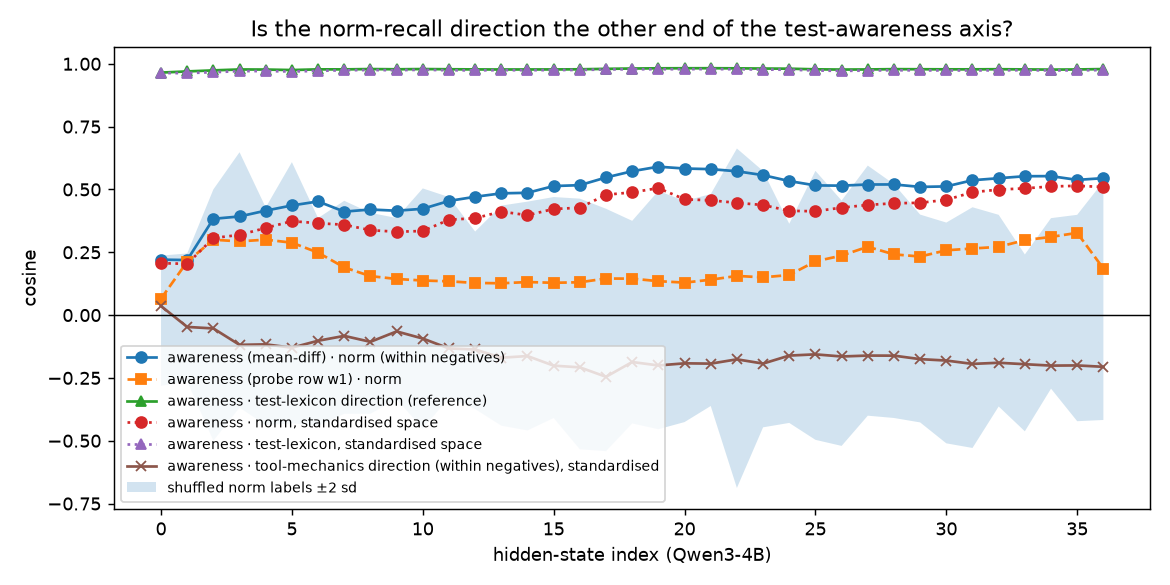
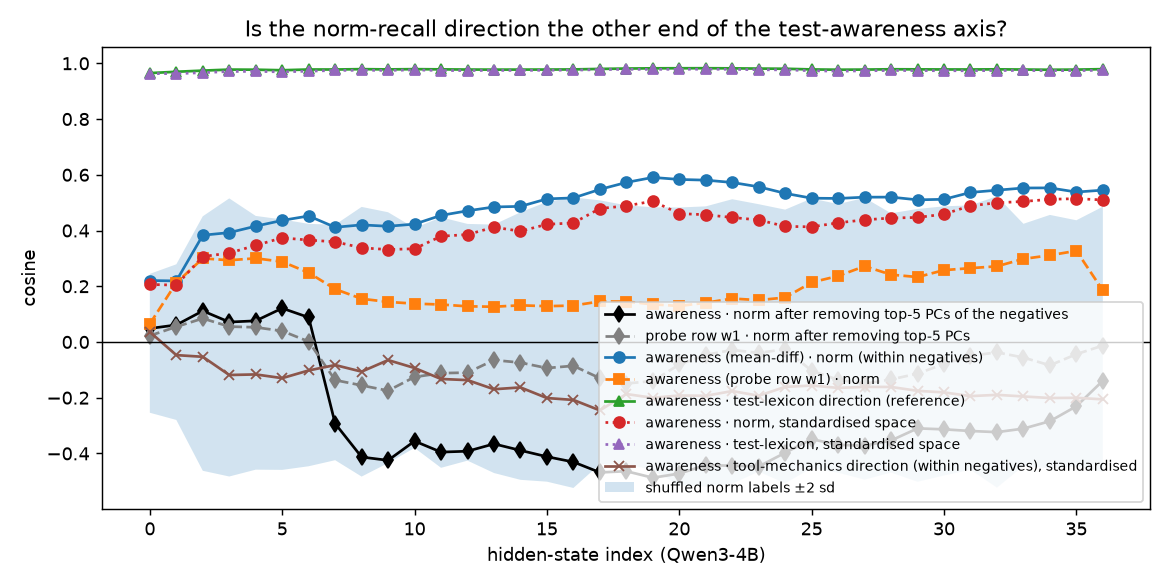
Geometry check, review revisions: per-row label assertion, 200-draw shuffled null, position-matched null (raw and after removing the negatives' top-5 PCs), PC-stripped cosines, within-positive norm direction in the summary

diff --git a/results/norm_direction/SUMMARY.md b/results/norm_direction/SUMMARY.md
@@ -1,45 +1,47 @@
 # Norm direction vs awareness direction (Qwen3-4B, cached probe-set span features)
 
-Generated by `scripts/norm_direction_geometry.py`. Rows 2719 spans (257 awareness-positive); norm-span share 0.14 in positives, 0.21 in negatives. Norm direction = mean(norm spans) − mean(other spans) **within the negative class**. Chance |cos| at d = 2560 ≈ 0.020.
+Generated by `scripts/norm_direction_geometry.py`. Rows 2719 spans (257 awareness-positive); norm-span share 0.14 in positives, 0.21 in negatives. Norm direction = mean(norm spans) − mean(other spans) **within the negative class**. The reference is the shuffled-label null, not 1/√d: random partitions of these spans reach |cos| ≈ 0.2 because a few principal components dominate the space (top-5 share of negative-class variance at hs 20: 0.62).
 
-At the probe's layer (hs 20): cos(awareness w1, norm) = +0.129; cos(awareness mean-diff, norm) = +0.583; shuffled-label null +0.014 ± 0.220; cos(awareness, test-lexicon direction) = +0.982; cos(norm, test-lexicon) = +0.607; random unit vector +0.023.
+At the probe's layer (hs 20): cos(awareness w1, norm) = +0.129; cos(awareness mean-diff, norm) = +0.583; shuffled-label null -0.016 ± 0.249; cos(awareness, test-lexicon direction) = +0.982; cos(norm, test-lexicon) = +0.607; random unit vector +0.023.
 
-| hs | aw_w1·norm | aw_md·norm | shuffled null | aw·test | norm·test | z: aw·norm | z: null | z: aw·test | z LR·LR aw·norm | aw_md·normLR | norm·initializing | norm·deduction | norm·adding-knowledge | norm·example-testing | norm·uncertainty-estimation | norm·backtracking |
-|---|---|---|---|---|---|---|---|---|---|---|---|---|---|---|---|---|
-| 0 | +0.065 | +0.221 | -0.022±0.130 | +0.965 | +0.284 | +0.206 | +0.010±0.089 | +0.963 | +0.031 | +0.216 | — | — | — | — | — | — |
-| 1 | +0.212 | +0.219 | -0.009±0.127 | +0.970 | +0.257 | +0.204 | -0.040±0.131 | +0.963 | — | — | -0.246 | -0.049 | +0.001 | -0.203 | +0.073 | -0.045 |
-| 2 | +0.300 | +0.383 | -0.000±0.250 | +0.974 | +0.411 | +0.307 | -0.010±0.175 | +0.966 | — | — | -0.382 | +0.070 | +0.093 | -0.091 | +0.141 | -0.040 |
-| 3 | +0.293 | +0.392 | +0.140±0.254 | +0.977 | +0.420 | +0.319 | +0.070±0.181 | +0.971 | — | — | -0.355 | +0.055 | +0.086 | -0.093 | +0.122 | -0.049 |
-| 4 | +0.300 | +0.416 | -0.005±0.216 | +0.977 | +0.440 | +0.347 | -0.020±0.168 | +0.971 | — | — | -0.329 | +0.021 | +0.064 | -0.136 | +0.087 | -0.077 |
-| 5 | +0.288 | +0.436 | +0.089±0.260 | +0.975 | +0.459 | +0.374 | +0.001±0.188 | +0.969 | — | — | -0.316 | -0.023 | +0.049 | -0.180 | +0.091 | -0.079 |
-| 6 | +0.249 | +0.452 | -0.027±0.207 | +0.978 | +0.476 | +0.366 | -0.029±0.145 | +0.972 | — | — | -0.333 | -0.022 | +0.007 | -0.203 | +0.110 | -0.060 |
-| 7 | +0.190 | +0.412 | +0.031±0.212 | +0.978 | +0.440 | +0.360 | +0.036±0.158 | +0.974 | — | — | -0.260 | -0.070 | -0.015 | -0.220 | +0.074 | -0.086 |
-| 8 | +0.155 | +0.420 | +0.007±0.200 | +0.979 | +0.447 | +0.338 | -0.107±0.134 | +0.975 | — | — | -0.269 | -0.052 | -0.017 | -0.194 | +0.093 | -0.061 |
-| 9 | +0.144 | +0.415 | +0.026±0.180 | +0.978 | +0.440 | +0.332 | +0.003±0.113 | +0.974 | — | — | -0.281 | -0.016 | -0.023 | -0.180 | +0.085 | -0.057 |
-| 10 | +0.138 | +0.423 | +0.026±0.239 | +0.979 | +0.451 | +0.335 | +0.084±0.162 | +0.976 | +0.038 | +0.007 | -0.268 | -0.035 | -0.029 | -0.203 | +0.063 | -0.078 |
-| 11 | +0.134 | +0.454 | +0.070±0.200 | +0.978 | +0.479 | +0.379 | -0.002±0.157 | +0.974 | — | — | -0.255 | -0.020 | -0.025 | -0.211 | +0.067 | -0.077 |
-| 12 | +0.128 | +0.471 | -0.021±0.177 | +0.978 | +0.495 | +0.385 | +0.010±0.145 | +0.974 | — | — | -0.231 | +0.001 | -0.011 | -0.203 | +0.092 | -0.052 |
-| 13 | +0.126 | +0.484 | -0.002±0.219 | +0.977 | +0.509 | +0.412 | +0.023±0.195 | +0.975 | — | — | -0.199 | +0.011 | +0.017 | -0.200 | +0.099 | -0.040 |
-| 14 | +0.131 | +0.487 | -0.004±0.228 | +0.977 | +0.508 | +0.397 | +0.011±0.139 | +0.974 | — | — | -0.228 | -0.012 | -0.006 | -0.221 | +0.078 | -0.066 |
-| 15 | +0.128 | +0.513 | +0.030±0.220 | +0.978 | +0.541 | +0.422 | -0.039±0.153 | +0.975 | — | — | -0.193 | -0.005 | +0.001 | -0.222 | +0.090 | -0.057 |
-| 16 | +0.131 | +0.517 | -0.035±0.249 | +0.978 | +0.545 | +0.427 | -0.005±0.220 | +0.975 | — | — | -0.201 | +0.018 | +0.016 | -0.204 | +0.086 | -0.050 |
-| 17 | +0.145 | +0.548 | -0.059±0.241 | +0.980 | +0.574 | +0.479 | -0.021±0.131 | +0.977 | — | — | -0.188 | +0.056 | +0.038 | -0.107 | +0.035 | -0.017 |
-| 18 | +0.145 | +0.573 | -0.028±0.202 | +0.981 | +0.596 | +0.488 | -0.023±0.253 | +0.978 | — | — | -0.186 | +0.066 | -0.003 | -0.108 | +0.005 | -0.006 |
-| 19 | +0.135 | +0.591 | +0.020±0.237 | +0.982 | +0.615 | +0.505 | -0.012±0.216 | +0.978 | — | — | -0.188 | +0.062 | +0.019 | -0.114 | +0.034 | -0.002 |
-| 20 | +0.129 | +0.583 | +0.014±0.220 | +0.982 | +0.607 | +0.461 | +0.037±0.221 | +0.979 | -0.006 | -0.004 | -0.183 | +0.051 | +0.002 | -0.127 | +0.058 | +0.003 |
-| 21 | +0.141 | +0.581 | +0.060±0.211 | +0.982 | +0.603 | +0.457 | -0.063±0.247 | +0.979 | — | — | -0.158 | +0.016 | +0.004 | -0.154 | +0.048 | -0.012 |
-| 22 | +0.156 | +0.572 | -0.013±0.338 | +0.982 | +0.596 | +0.447 | +0.021±0.206 | +0.978 | — | — | -0.169 | -0.014 | +0.010 | -0.160 | +0.033 | -0.022 |
-| 23 | +0.150 | +0.557 | +0.063±0.255 | +0.981 | +0.583 | +0.438 | +0.023±0.233 | +0.977 | — | — | -0.152 | -0.023 | +0.018 | -0.165 | +0.059 | -0.010 |
-| 24 | +0.159 | +0.533 | -0.033±0.198 | +0.980 | +0.558 | +0.415 | -0.044±0.191 | +0.976 | — | — | -0.160 | -0.017 | +0.037 | -0.171 | +0.070 | +0.003 |
-| 25 | +0.214 | +0.516 | +0.039±0.268 | +0.978 | +0.542 | +0.413 | +0.040±0.153 | +0.973 | — | — | -0.151 | -0.012 | +0.047 | -0.162 | +0.076 | -0.000 |
-| 26 | +0.237 | +0.515 | -0.032±0.244 | +0.977 | +0.547 | +0.428 | -0.038±0.196 | +0.972 | — | — | -0.154 | -0.021 | +0.033 | -0.163 | +0.060 | -0.021 |
-| 27 | +0.272 | +0.520 | +0.097±0.249 | +0.977 | +0.549 | +0.438 | -0.015±0.169 | +0.973 | — | — | -0.154 | -0.030 | +0.052 | -0.144 | +0.034 | -0.038 |
-| 28 | +0.242 | +0.520 | +0.056±0.233 | +0.979 | +0.551 | +0.445 | -0.031±0.147 | +0.974 | — | — | -0.167 | -0.025 | +0.034 | -0.146 | +0.034 | -0.031 |
-| 29 | +0.233 | +0.510 | -0.014±0.207 | +0.978 | +0.542 | +0.447 | -0.029±0.151 | +0.974 | — | — | -0.173 | -0.016 | +0.031 | -0.151 | +0.038 | -0.031 |
-| 30 | +0.258 | +0.512 | -0.071±0.220 | +0.978 | +0.545 | +0.459 | -0.001±0.130 | +0.973 | -0.014 | -0.006 | -0.166 | -0.010 | +0.037 | -0.152 | +0.039 | -0.031 |
-| 31 | +0.265 | +0.537 | -0.050±0.239 | +0.978 | +0.569 | +0.489 | -0.064±0.183 | +0.973 | — | — | -0.162 | -0.007 | +0.024 | -0.152 | +0.027 | -0.028 |
-| 32 | +0.271 | +0.545 | +0.018±0.191 | +0.978 | +0.574 | +0.499 | -0.044±0.178 | +0.974 | — | — | -0.180 | +0.006 | +0.015 | -0.150 | +0.029 | -0.025 |
-| 33 | +0.298 | +0.553 | -0.111±0.176 | +0.978 | +0.583 | +0.504 | -0.034±0.161 | +0.974 | — | — | -0.177 | -0.026 | +0.029 | -0.132 | +0.007 | -0.040 |
-| 34 | +0.311 | +0.553 | +0.047±0.170 | +0.977 | +0.582 | +0.512 | +0.003±0.148 | +0.974 | — | — | -0.158 | -0.053 | +0.027 | -0.113 | -0.012 | -0.045 |
-| 35 | +0.327 | +0.538 | -0.012±0.205 | +0.977 | +0.567 | +0.514 | +0.054±0.175 | +0.974 | — | — | -0.148 | -0.068 | +0.048 | -0.109 | -0.042 | -0.063 |
-| 36 | +0.185 | +0.545 | +0.057±0.237 | +0.979 | +0.564 | +0.510 | +0.032±0.227 | +0.975 | +0.009 | +0.005 | -0.147 | -0.160 | -0.054 | -0.214 | -0.091 | -0.088 |
+Columns: w1 = the trained probe row (the steering direction); md = mean-difference awareness direction; −m pc = after projecting out the top-m principal components of the negative-class spans; null = shuffled norm labels (200 draws), pos-null = shuffled within relative-position quintiles; within-pos = norm direction built inside the positive class instead.
+
+| hs | w1·norm | w1·norm −5pc | md·norm | md·norm −1pc | −5pc | −20pc | null | pos-null | md·test −5pc | within-pos md·norm | z LR·LR aw·norm | norm·initializing | norm·deduction | norm·adding-knowledge | norm·example-testing | norm·uncertainty-estimation | norm·backtracking |
+|---|---|---|---|---|---|---|---|---|---|---|---|---|---|---|---|---|---|
+| 0 | +0.065 | +0.022 | +0.221 | +0.087 | +0.048 | -0.018 | -0.005±0.125 | +0.275±0.061 | +0.961 | -0.374 | +0.031 | — | — | — | — | — | — |
+| 1 | +0.212 | +0.055 | +0.219 | +0.256 | +0.061 | -0.028 | -0.001±0.140 | +0.414±0.055 | +0.955 | -0.395 | — | -0.246 | -0.049 | +0.001 | -0.203 | +0.073 | -0.045 |
+| 2 | +0.300 | +0.084 | +0.383 | +0.250 | +0.112 | -0.100 | -0.006±0.228 | +0.511±0.080 | +0.953 | -0.391 | — | -0.382 | +0.070 | +0.093 | -0.091 | +0.141 | -0.040 |
+| 3 | +0.293 | +0.055 | +0.392 | +0.298 | +0.072 | -0.096 | +0.016±0.249 | +0.597±0.070 | +0.955 | -0.328 | — | -0.355 | +0.055 | +0.086 | -0.093 | +0.122 | -0.049 |
+| 4 | +0.300 | +0.053 | +0.416 | +0.417 | +0.076 | -0.068 | -0.003±0.228 | +0.616±0.051 | +0.956 | -0.312 | — | -0.329 | +0.021 | +0.064 | -0.136 | +0.087 | -0.077 |
+| 5 | +0.288 | +0.039 | +0.436 | +0.466 | +0.121 | -0.014 | -0.010±0.225 | +0.592±0.052 | +0.955 | -0.270 | — | -0.316 | -0.023 | +0.049 | -0.180 | +0.091 | -0.079 |
+| 6 | +0.249 | +0.002 | +0.452 | +0.466 | +0.088 | -0.077 | -0.011±0.217 | +0.589±0.050 | +0.960 | -0.303 | — | -0.333 | -0.022 | +0.007 | -0.203 | +0.110 | -0.060 |
+| 7 | +0.190 | -0.137 | +0.412 | +0.438 | -0.293 | -0.059 | -0.002±0.211 | +0.509±0.053 | +0.956 | -0.292 | — | -0.260 | -0.070 | -0.015 | -0.220 | +0.074 | -0.086 |
+| 8 | +0.155 | -0.156 | +0.420 | +0.422 | -0.413 | -0.062 | +0.001±0.242 | +0.543±0.048 | +0.960 | -0.292 | — | -0.269 | -0.052 | -0.017 | -0.194 | +0.093 | -0.061 |
+| 9 | +0.144 | -0.175 | +0.415 | +0.427 | -0.425 | -0.026 | +0.016±0.225 | +0.512±0.049 | +0.964 | -0.283 | — | -0.281 | -0.016 | -0.023 | -0.180 | +0.085 | -0.057 |
+| 10 | +0.138 | -0.126 | +0.423 | +0.442 | -0.356 | +0.004 | +0.014±0.197 | +0.495±0.059 | +0.963 | -0.245 | +0.038 | -0.268 | -0.035 | -0.029 | -0.203 | +0.063 | -0.078 |
+| 11 | +0.134 | -0.112 | +0.454 | +0.478 | -0.395 | +0.016 | -0.002±0.225 | +0.517±0.056 | +0.960 | -0.244 | — | -0.255 | -0.020 | -0.025 | -0.211 | +0.067 | -0.077 |
+| 12 | +0.128 | -0.110 | +0.471 | +0.486 | -0.392 | +0.001 | -0.001±0.212 | +0.528±0.061 | +0.958 | -0.207 | — | -0.231 | +0.001 | -0.011 | -0.203 | +0.092 | -0.052 |
+| 13 | +0.126 | -0.065 | +0.484 | +0.489 | -0.366 | -0.002 | -0.025±0.223 | +0.533±0.060 | +0.958 | -0.209 | — | -0.199 | +0.011 | +0.017 | -0.200 | +0.099 | -0.040 |
+| 14 | +0.131 | -0.074 | +0.487 | +0.489 | -0.389 | -0.012 | -0.015±0.240 | +0.554±0.058 | +0.957 | -0.206 | — | -0.228 | -0.012 | -0.006 | -0.221 | +0.078 | -0.066 |
+| 15 | +0.128 | -0.094 | +0.513 | +0.499 | -0.412 | -0.026 | +0.001±0.251 | +0.551±0.061 | +0.958 | -0.130 | — | -0.193 | -0.005 | +0.001 | -0.222 | +0.090 | -0.057 |
+| 16 | +0.131 | -0.086 | +0.517 | +0.481 | -0.431 | -0.009 | -0.003±0.261 | +0.559±0.065 | +0.958 | -0.121 | — | -0.201 | +0.018 | +0.016 | -0.204 | +0.086 | -0.050 |
+| 17 | +0.145 | -0.130 | +0.548 | +0.547 | -0.468 | -0.049 | +0.035±0.237 | +0.506±0.110 | +0.960 | -0.116 | — | -0.188 | +0.056 | +0.038 | -0.107 | +0.035 | -0.017 |
+| 18 | +0.145 | -0.149 | +0.573 | +0.565 | -0.464 | -0.019 | +0.026±0.232 | +0.525±0.105 | +0.960 | -0.060 | — | -0.186 | +0.066 | -0.003 | -0.108 | +0.005 | -0.006 |
+| 19 | +0.135 | -0.140 | +0.591 | +0.584 | -0.487 | -0.063 | +0.012±0.236 | +0.531±0.097 | +0.959 | +0.010 | — | -0.188 | +0.062 | +0.019 | -0.114 | +0.034 | -0.002 |
+| 20 | +0.129 | -0.081 | +0.583 | +0.580 | -0.472 | -0.083 | -0.016±0.249 | +0.540±0.084 | +0.961 | -0.008 | -0.006 | -0.183 | +0.051 | +0.002 | -0.127 | +0.058 | +0.003 |
+| 21 | +0.141 | -0.046 | +0.581 | +0.578 | -0.442 | -0.073 | -0.016±0.251 | +0.551±0.079 | +0.958 | -0.029 | — | -0.158 | +0.016 | +0.004 | -0.154 | +0.048 | -0.012 |
+| 22 | +0.156 | -0.028 | +0.572 | +0.570 | -0.444 | -0.083 | +0.002±0.255 | +0.557±0.069 | +0.957 | -0.044 | — | -0.169 | -0.014 | +0.010 | -0.160 | +0.033 | -0.022 |
+| 23 | +0.150 | -0.039 | +0.557 | +0.557 | -0.447 | -0.092 | +0.015±0.240 | +0.576±0.065 | +0.956 | -0.031 | — | -0.152 | -0.023 | +0.018 | -0.165 | +0.059 | -0.010 |
+| 24 | +0.159 | -0.026 | +0.533 | +0.509 | -0.397 | -0.069 | -0.016±0.245 | +0.545±0.066 | +0.952 | -0.056 | — | -0.160 | -0.017 | +0.037 | -0.171 | +0.070 | +0.003 |
+| 25 | +0.214 | -0.103 | +0.516 | +0.446 | -0.349 | -0.082 | +0.031±0.242 | +0.568±0.056 | +0.952 | -0.083 | — | -0.151 | -0.012 | +0.047 | -0.162 | +0.076 | -0.000 |
+| 26 | +0.237 | -0.136 | +0.515 | +0.456 | -0.369 | -0.105 | +0.013±0.241 | +0.564±0.063 | +0.955 | -0.081 | — | -0.154 | -0.021 | +0.033 | -0.163 | +0.060 | -0.021 |
+| 27 | +0.272 | -0.150 | +0.520 | +0.449 | -0.372 | -0.148 | +0.012±0.253 | +0.556±0.065 | +0.958 | -0.071 | — | -0.154 | -0.030 | +0.052 | -0.144 | +0.034 | -0.038 |
+| 28 | +0.242 | -0.135 | +0.520 | +0.464 | -0.353 | -0.116 | -0.003±0.233 | +0.537±0.066 | +0.962 | -0.080 | — | -0.167 | -0.025 | +0.034 | -0.146 | +0.034 | -0.031 |
+| 29 | +0.233 | -0.114 | +0.510 | +0.444 | -0.310 | -0.096 | -0.012±0.245 | +0.532±0.066 | +0.962 | -0.094 | — | -0.173 | -0.016 | +0.031 | -0.151 | +0.038 | -0.031 |
+| 30 | +0.258 | -0.079 | +0.512 | +0.438 | -0.314 | -0.068 | +0.004±0.242 | +0.517±0.064 | +0.962 | -0.080 | -0.014 | -0.166 | -0.010 | +0.037 | -0.152 | +0.039 | -0.031 |
+| 31 | +0.265 | -0.050 | +0.537 | +0.402 | -0.319 | -0.067 | +0.016±0.237 | +0.534±0.068 | +0.961 | -0.109 | — | -0.162 | -0.007 | +0.024 | -0.152 | +0.027 | -0.028 |
+| 32 | +0.271 | -0.037 | +0.545 | +0.353 | -0.324 | -0.050 | +0.000±0.261 | +0.525±0.068 | +0.962 | -0.103 | — | -0.180 | +0.006 | +0.015 | -0.150 | +0.029 | -0.025 |
+| 33 | +0.298 | -0.056 | +0.553 | +0.373 | -0.311 | -0.067 | -0.011±0.217 | +0.514±0.070 | +0.962 | -0.086 | — | -0.177 | -0.026 | +0.029 | -0.132 | +0.007 | -0.040 |
+| 34 | +0.311 | -0.084 | +0.553 | +0.451 | -0.284 | -0.057 | +0.001±0.227 | +0.524±0.070 | +0.961 | -0.075 | — | -0.158 | -0.053 | +0.027 | -0.113 | -0.012 | -0.045 |
+| 35 | +0.327 | -0.044 | +0.538 | +0.255 | -0.231 | -0.106 | -0.005±0.221 | +0.533±0.061 | +0.958 | -0.149 | — | -0.148 | -0.068 | +0.048 | -0.109 | -0.042 | -0.063 |
+| 36 | +0.185 | -0.013 | +0.545 | +0.223 | -0.139 | -0.120 | +0.010±0.238 | +0.537±0.067 | +0.961 | -0.174 | +0.009 | -0.147 | -0.160 | -0.054 | -0.214 | -0.091 | -0.088 |
